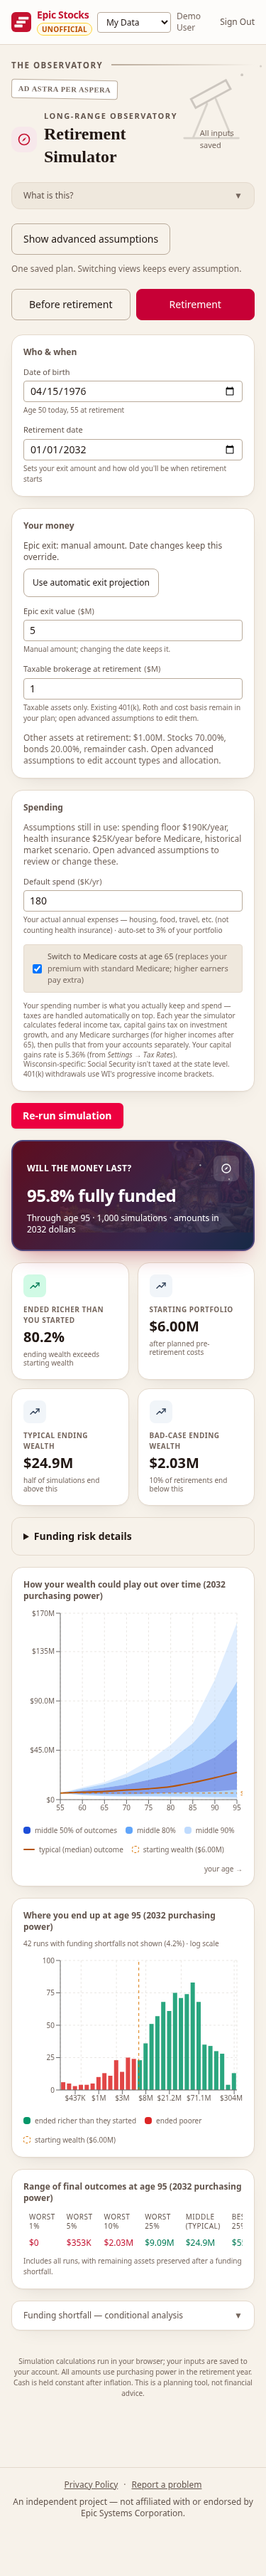
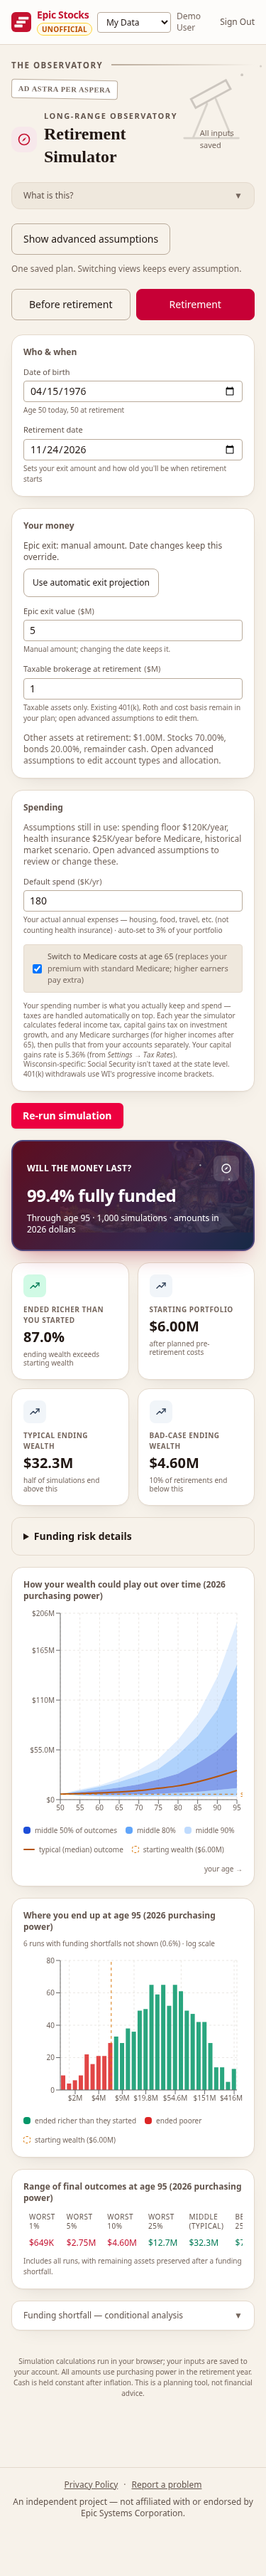
Preserve legacy exit values until date changes without pinning them

diff --git a/frontend/src/app/pages/Retirement.tsx b/frontend/src/app/pages/Retirement.tsx
@@ -423,6 +423,8 @@ function RetirementAccount() {
   const [paramsError, setParamsError] = useState(false)
   const [paramsReloadNonce, setParamsReloadNonce] = useState(0)
   const [exitMode, setExitMode] = useState<'auto' | 'manual'>('auto')
+  const [legacyExitDate, setLegacyExitDate] = useState<string | null>(null)
+  const legacyExitHeld = legacyExitDate === retirementDate
   const [exitError, setExitError] = useState('')
   const [exitRetry, setExitRetry] = useState(0)
   const [advancedView, setAdvancedView] = useState(false)
@@ -511,7 +513,9 @@ function RetirementAccount() {
             setSpouseDOB(savedSpouseDOB || null)
           }
           // Treat saved values as user choices: don't auto-overwrite them.
-          setExitMode(rawSaved.epicExitMode === 'auto' ? 'auto' : 'epicExit' in rawSaved ? 'manual' : 'auto')
+          setExitMode(rawSaved.epicExitMode === 'manual' ? 'manual' : 'auto')
+          setLegacyExitDate(!('epicExitMode' in rawSaved) && 'epicExit' in rawSaved
+            ? (typeof savedDate === 'string' && savedDate ? savedDate : today) : null)
           if ('defaultSpend' in rawSaved) defaultSpendOverriddenRef.current = true
           if ('minSpend' in rawSaved) minSpendOverriddenRef.current = true
         }
@@ -523,7 +527,7 @@ function RetirementAccount() {
         setParamsLoaded(false)
         setParamsError(true)
       })
-  }, [vid, paramsReloadNonce])
+  }, [vid, paramsReloadNonce, today])
 
   // Push the age-at-retirement-date into params as the simulation start age.
   // The exit-preview seeds wealth as of `retirementDate`, so the horizon must
@@ -558,7 +562,7 @@ function RetirementAccount() {
   // loading indicator) when the user already has a saved epicExit value.
   useEffect(() => {
     if (!paramsLoaded) return
-    if (exitMode === 'manual') { setExitError(''); setExitPreviewLoading(false); return }
+    if (exitMode === 'manual' || legacyExitHeld) { setExitError(''); setExitPreviewLoading(false); return }
     let cancelled = false
     setExitPreviewLoading(true)
     setExitError('')
@@ -577,7 +581,7 @@ function RetirementAccount() {
     return () => {
       cancelled = true
     }
-  }, [paramsLoaded, retirementDate, vid, exitMode, exitRetry])
+  }, [paramsLoaded, retirementDate, vid, exitMode, exitRetry, legacyExitHeld])
 
   // Pull state tax rates from the user's TaxSettings — federal is bracket-based
   // in the simulator (no user input needed), state is a flat rate from settings.
@@ -645,7 +649,7 @@ function RetirementAccount() {
       api.saveRetirementParams({
         ...(params as unknown as Record<string, unknown>),
         retirementDate,
-        epicExitMode: exitMode,
+        ...(legacyExitHeld ? {} : { epicExitMode: exitMode }),
         spouseDOB,
       })
         .then(() => {
@@ -658,7 +662,7 @@ function RetirementAccount() {
         })
     }, 500)
     return () => clearTimeout(t)
-  }, [params, retirementDate, spouseDOB, vid, exitMode, exitPreviewLoading, exitError])
+  }, [params, retirementDate, spouseDOB, vid, exitMode, exitPreviewLoading, exitError, legacyExitHeld])
 
   const totalPortfolio = params.epicExit + params.taxableAdditional + params.traditional + params.roth
   const taxableTotal = params.epicExit + params.taxableAdditional
@@ -745,13 +749,15 @@ function RetirementAccount() {
         <span className="text-[11px] text-cs-muted">
           {vid
             ? `Viewing ${viewing?.name ?? 'owner'}’s plan — your edits aren’t saved`
-            : saveStatus === 'saving'
-              ? 'Saving…'
-              : saveStatus === 'saved'
-                ? 'All inputs saved'
-                : saveStatus === 'error'
-                  ? 'Save failed'
-                  : 'Inputs save automatically'}
+            : exitMode === 'auto' && !legacyExitHeld && (exitError || exitPreviewLoading)
+              ? (exitError ? 'Saving paused — resolve exit projection' : 'Refreshing exit amount…')
+              : saveStatus === 'saving'
+                ? 'Saving…'
+                : saveStatus === 'saved'
+                  ? 'All inputs saved'
+                  : saveStatus === 'error'
+                    ? 'Save failed'
+                    : 'Inputs save automatically'}
         </span>
       </div>
 
@@ -811,7 +817,7 @@ function RetirementAccount() {
       </div>
       {planStage === 'before' && <div className="space-y-4">
         <label className="flex flex-col gap-1 text-xs text-cs-text-2">Target retirement date
-          <input type="date" value={retirementDate} onChange={e => setRetirementDate(e.target.value)} className="rounded border border-cs-border-strong bg-cs-surface p-2 text-cs-text" />
+          <input type="date" value={retirementDate} onChange={e => { setLegacyExitDate(null); setRetirementDate(e.target.value) }} className="rounded border border-cs-border-strong bg-cs-surface p-2 text-cs-text" />
         </label>
         <BeforeRetirement events={params.plannedEvents ?? []} retirementDate={retirementDate} />
         <LifeEventsPlanner phase="before"
@@ -867,6 +873,7 @@ function RetirementAccount() {
                 type="date"
                 value={retirementDate}
                 onChange={e => {
+                  setLegacyExitDate(null)
                   setRetirementDate(e.target.value)
                 }}
                 className="rounded border border-cs-border-strong bg-cs-surface px-2 py-1 text-sm tabular-nums text-cs-text focus:border-rose-400 focus:outline-none "
@@ -938,8 +945,9 @@ function RetirementAccount() {
         <Card pad="md">
           <p className="mb-3 text-xs font-semibold text-cs-text-2">Your money</p>
           <div className="mb-3 space-y-2">
-            <p className="text-xs text-cs-text-2">{exitMode === 'auto' ? 'Epic exit: projected automatically for the retirement date using saved share prices and future price estimates. No additional Epic share growth is assumed here; edit future prices on the Prices page.' : 'Epic exit: manual amount. Date changes keep this override.'}</p>
-            <button type="button" onClick={() => setExitMode(m => m === 'auto' ? 'manual' : 'auto')} className="min-h-10 rounded-lg border border-cs-border-strong px-3 py-2 text-xs font-medium text-cs-text">{exitMode === 'auto' ? 'Enter a manual exit amount' : 'Use automatic exit projection'}</button>
+            <p className="text-xs text-cs-text-2">{legacyExitHeld ? 'Saved exit amount kept for this date. Changing the date will project a new amount; choose manual to keep a fixed override.' : exitMode === 'auto' ? 'Epic exit: projected automatically for the retirement date using saved share prices and future price estimates. No additional Epic share growth is assumed here; edit future prices on the Prices page.' : 'Epic exit: manual amount. Date changes keep this override.'}</p>
+            <button type="button" onClick={() => { setLegacyExitDate(null); setExitMode(m => m === 'auto' ? 'manual' : 'auto') }} className="min-h-10 rounded-lg border border-cs-border-strong px-3 py-2 text-xs font-medium text-cs-text">{exitMode === 'auto' ? 'Enter a manual exit amount' : 'Use automatic exit projection'}</button>
+            {legacyExitHeld && <button type="button" onClick={() => setLegacyExitDate(null)} className="min-h-10 rounded-lg border border-cs-border-strong px-3 py-2 text-xs font-medium text-cs-text">Refresh exit projection now</button>}
             {exitMode === 'auto' && exitError && <p role="alert" className="text-xs text-amber-800 dark:text-amber-200">{exitError} <button type="button" onClick={() => setExitRetry(n => n + 1)} className="underline">Retry exit projection</button></p>}
           </div>
           <div className="grid grid-cols-1 gap-3 sm:grid-cols-2 md:grid-cols-3">
@@ -947,13 +955,14 @@ function RetirementAccount() {
               label="Epic exit value"
               value={params.epicExit}
               onChange={v => {
+                setLegacyExitDate(null)
                 setExitMode('manual')
                 update('epicExit', v)
               }}
               min={0}
               step={0.1}
               suffix="$M"
-              hint={exitMode === 'manual' ? 'Manual amount; changing the date keeps it.' : exitError ? 'Last successful amount; paused until projection is resolved.' : 'Date-specific projection; editing this amount switches to manual mode.'}
+              hint={legacyExitHeld ? 'Saved amount for this date; refresh or change date to project.' : exitMode === 'manual' ? 'Manual amount; changing the date keeps it.' : exitError ? 'Last successful amount; paused until projection is resolved.' : 'Date-specific projection; editing this amount switches to manual mode.'}
             />
             {!params.advanced && (
               <NumInput

diff --git a/frontend/src/__tests__/Retirement.test.tsx b/frontend/src/__tests__/Retirement.test.tsx
@@ -512,7 +512,7 @@ describe('Retirement page', () => {
   })
 
   it('runs with a warning when retirement moves beyond a conditional purchase', async () => {
-    mockApi({ savedParams: { retirementDate: '2030-06-15', epicExit: 5, paths: 10,
+    mockApi({ savedParams: { retirementDate: '2030-06-15', epicExit: 5, epicExitMode: 'manual', paths: 10,
       plannedEvents: [{ id: 'car', title: 'Car', kind: 'vehicle', date: '2037-01-01',
         amountM: 0.2, condition: { requireFullSpending: true } }] } })
     render(<MemoryRouter><Retirement /></MemoryRouter>)
@@ -528,7 +528,7 @@ describe('Retirement page', () => {
 
   it('keeps result ages and purchasing-power year tied to the run until rerun', async () => {
     mockApi({ savedParams: {
-      retirementDate: '2030-06-15', epicExit: 5, paths: 10, seed: 42,
+      retirementDate: '2030-06-15', epicExit: 5, epicExitMode: 'manual', paths: 10, seed: 42,
       currentAge: 50, endAge: 95, defaultSpend: 100, minSpend: 80,
     } })
     render(<MemoryRouter><Retirement /></MemoryRouter>)
@@ -644,8 +644,19 @@ it('keeps account balances and basis when hiding the breakdown or switching view
   })
 })
 
-it('preserves a legacy manual exit amount when the retirement date changes', async () => {
-  mockApi({ savedParams: { epicExit: 5, retirementDate: '2032-01-01' } })
+it('keeps a legacy amount initially and automatically projects when its date changes', async () => {
+  mockApi({ netCash: 6_000_000, savedParams: { epicExit: 5, retirementDate: '2032-01-01' } })
+  render(<MemoryRouter><Retirement /></MemoryRouter>)
+  await screen.findByDisplayValue('5')
+  expect(screen.getByText(/Saved exit amount kept for this date/)).toBeVisible()
+  expect(vi.mocked(globalThis.fetch).mock.calls.some(([url]) => String(url).includes('/api/preview-exit'))).toBe(false)
+  fireEvent.change(screen.getByLabelText(/^Retirement date/), { target: { value: '2035-01-01' } })
+  expect(await screen.findByDisplayValue('6')).toBeVisible()
+  expect(screen.getByText(/Epic exit: projected automatically/)).toBeVisible()
+})
+
+it('preserves an explicitly manual amount when the retirement date changes', async () => {
+  mockApi({ savedParams: { epicExit: 5, epicExitMode: 'manual', retirementDate: '2032-01-01' } })
   render(<MemoryRouter><Retirement /></MemoryRouter>)
   await screen.findByDisplayValue('5')
   fireEvent.change(screen.getByLabelText(/^Retirement date/), { target: { value: '2035-01-01' } })

diff --git a/frontend/e2e/screenshots.spec.ts b/frontend/e2e/screenshots.spec.ts
@@ -859,7 +859,7 @@ test.describe('Screenshots', () => {
     // which capped the 60s waitForSelector and failed these three outright.
     test.setTimeout(150_000)
     const saved = await (await page.request.get(`${BASE}/api/retirement/params`)).json()
-    expect((await page.request.put(`${BASE}/api/retirement/params`, { data: { params: { ...saved.params, advanced: false, traditional: 0, roth: 0, additionalBasis: 0, paths: 1000, seed: 1729 } } })).ok()).toBe(true)
+    expect((await page.request.put(`${BASE}/api/retirement/params`, { data: { params: { ...saved.params, epicExitMode: 'manual', advanced: false, traditional: 0, roth: 0, additionalBasis: 0, paths: 1000, seed: 1729 } } })).ok()).toBe(true)
     await page.goto(`${BASE}/retirement`)
     await page.waitForLoadState('networkidle')
     await page.waitForTimeout(500)

diff --git a/README.md b/README.md
@@ -1799,7 +1799,7 @@ validation checklist are recorded in [the planning workflow plan](docs/planning-
 
 The planner starts in **basic view**. Use **Show advanced assumptions** for allocation, account types, spending floor, Social Security, spouse and conditional purchases. Both views use one saved plan and the same simulation engine; hiding account details never combines account balances or clears their basis. The basic view summarizes the accounts still included in the calculation. Pre-retirement expenses stay in the **Before retirement** flow and reduce retirement starting wealth.
 
-**Automatic Epic exit projection** recalculates for the selected retirement date using saved prices and future estimates. The simulator does not add another share-growth assumption. If the projection fails or no data is available, simulation pauses and offers Retry or an explicit manual amount; it never silently runs with the old date's value. A manual override stays manual when the date changes. Existing plans with an exit amount and no mode metadata keep that amount as a manual override. New saves include `epicExitMode` (`auto` or `manual`); changing views preserves it. Shared viewers can explore without saving the owner's plan.
+**Automatic Epic exit projection** recalculates for the selected retirement date using saved prices and future estimates. The simulator does not add another share-growth assumption. If the projection fails or no data is available, simulation pauses and offers Retry or an explicit manual amount; it never silently runs with the old date's value. A manual override stays manual when the date changes. For a legacy plan without mode metadata, the saved amount is kept for its original date and clearly identified. The first date change recalculates automatically, matching previous behavior. Choose manual to pin it, or Refresh to project immediately. Saving pauses visibly if an automatic projection fails. New saves include `epicExitMode` (`auto` or `manual`); changing views preserves it. Shared viewers can explore without saving the owner's plan.
 
 ![Retirement basic view](screenshots/retirement-basic-light-mobile.png)
 
